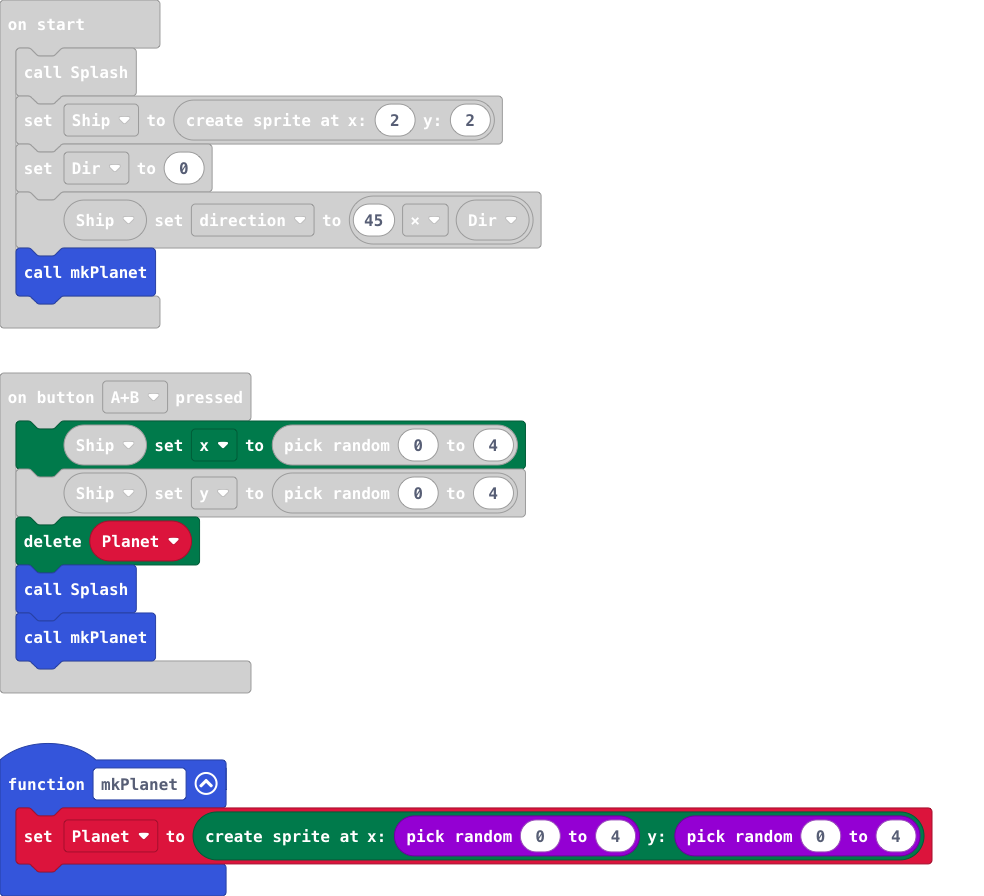
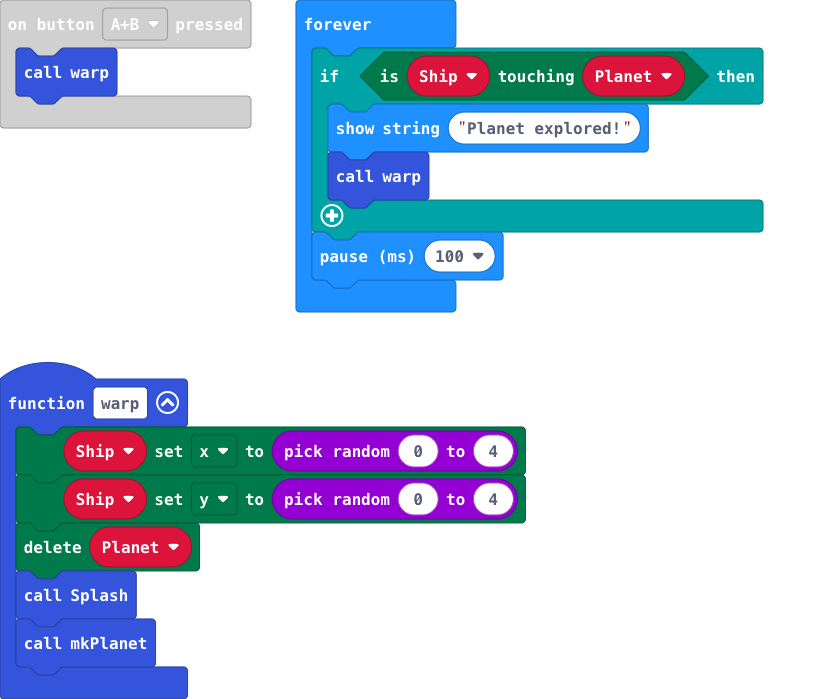
Update main.blocks, main.ts

diff --git a/main.ts b/main.ts
@@ -30,15 +30,18 @@ input.onButtonPressed(Button.A, function () {
         Ship.ifOnEdgeBounce()
     }
 })
-function mkPlanet () {
-    Planet = game.createSprite(randint(0, 4), randint(0, 4))
-}
-input.onButtonPressed(Button.AB, function () {
+function warp () {
     Ship.set(LedSpriteProperty.X, randint(0, 4))
     Ship.set(LedSpriteProperty.Y, randint(0, 4))
     Planet.delete()
     Splash()
     mkPlanet()
+}
+function mkPlanet () {
+    Planet = game.createSprite(randint(0, 4), randint(0, 4))
+}
+input.onButtonPressed(Button.AB, function () {
+    warp()
 })
 input.onButtonPressed(Button.B, function () {
     Dir += 1
@@ -58,3 +61,10 @@ Ship = game.createSprite(2, 2)
 Dir = 0
 Ship.set(LedSpriteProperty.Direction, 45 * Dir)
 mkPlanet()
+basic.forever(function () {
+    if (Ship.isTouching(Planet)) {
+        basic.showString("Planet explored!")
+        warp()
+    }
+    basic.pause(100)
+})
